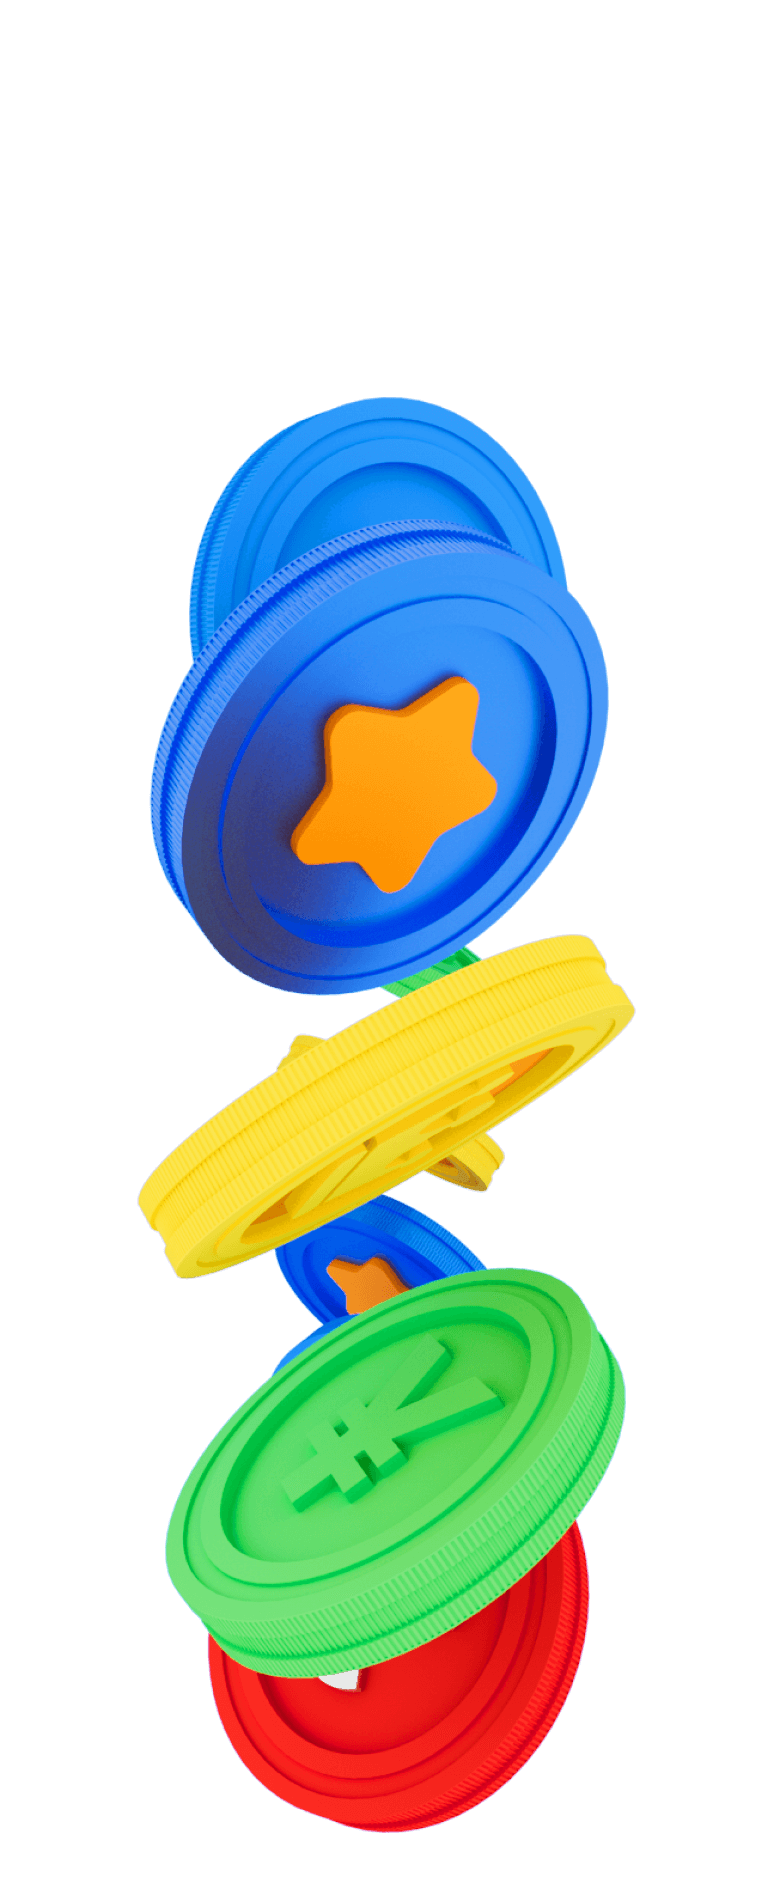
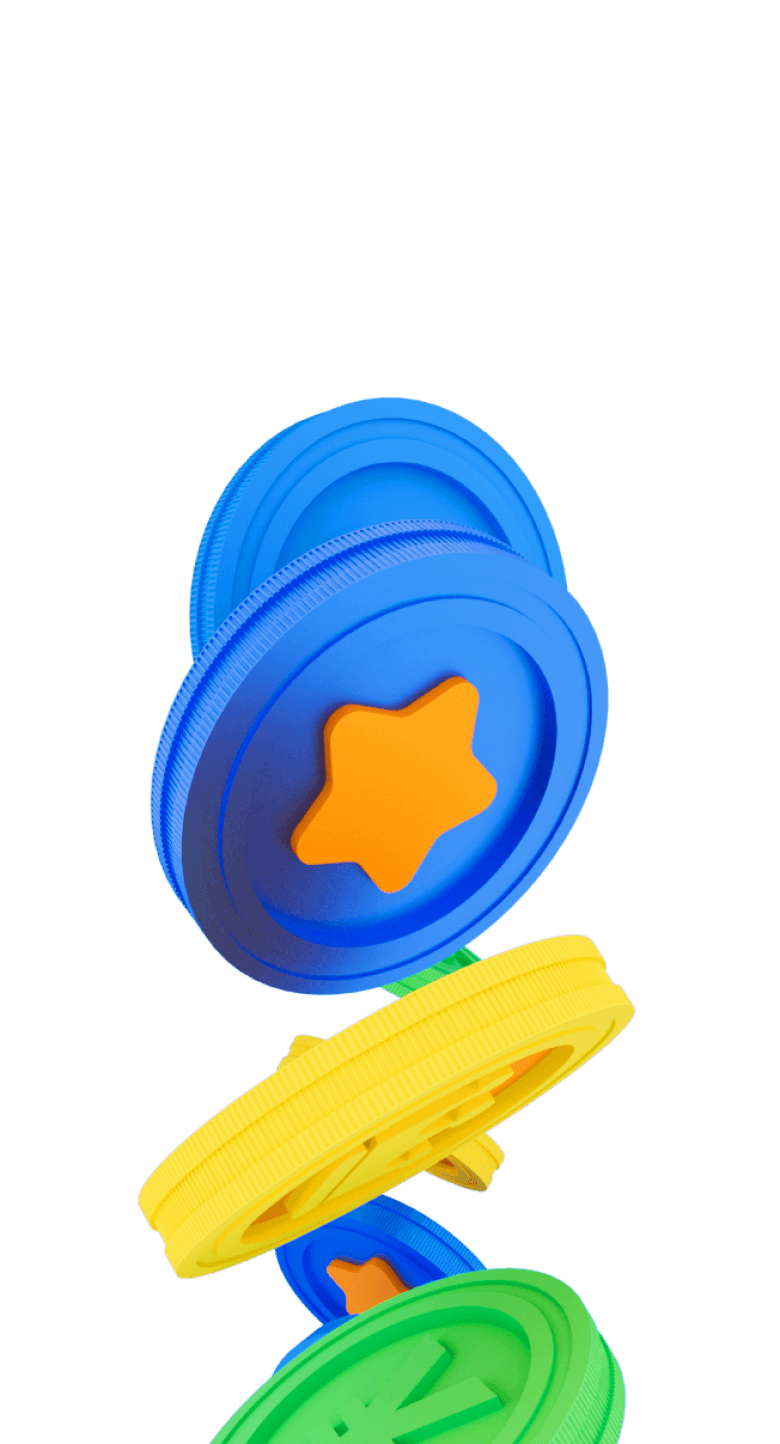
fix loader

diff --git a/components/Loader/Loader.module.scss b/components/Loader/Loader.module.scss
@@ -1,15 +1,12 @@
 .loader {
-  position: absolute;
-  z-index: 100;
-  top: 0;
-  right: 0;
-  bottom: 0;
-  left: 0;
+  position: relative;
+  height: 100vh;
   padding: 67px 0;
   display: flex;
   flex-direction: column;
   align-items: center;
   justify-content: space-between;
+  overflow: hidden;
 
   background: radial-gradient(50% 50% at 50% 50%, #00c3ff 0%, #007aff 100%);
   color: var(--color-white);
@@ -17,12 +14,13 @@
   .bg {
     position: absolute;
     top: 0;
+    bottom: 0;
 
-    .shape {
+    & .shape {
       position: absolute;
-      bottom: 0;
       left: 0;
       right: 0;
+      bottom: 0;
       height: 300px;
 
       background: linear-gradient(180deg, rgba(0, 122, 255, 0) 0%, #007aff 59.42%);

diff --git a/components/Wrapper/Wrapper.tsx b/components/Wrapper/Wrapper.tsx
@@ -37,7 +37,7 @@ const Wrapper = ({ children }: Props) => {
 
   useEffect(() => {
     setTimeout(() => {
-      setIsLoading(false)
+      // setIsLoading(false)
     }, 3000)
   }, [])
 
@@ -93,6 +93,10 @@ const Wrapper = ({ children }: Props) => {
     if (action === 'erase') {
       setValue((prev) => prev.slice(0, -1))
     }
+  }
+
+  if (isLoading) {
+    return <Loader />
   }
 
   return (
@@ -334,8 +338,6 @@ const Wrapper = ({ children }: Props) => {
           </div>
         </div>
       )}
-
-      {isLoading && <Loader />}
     </div>
   )
 }

diff --git a/components/Loader/Loader.tsx b/components/Loader/Loader.tsx
@@ -7,7 +7,7 @@ const Loader = () => {
   return (
     <div className={styles.loader}>
       <div className={styles.bg}>
-        <Image src={'/loader-bg.png'} alt={'coins'} width={390} height={943} />
+        <Image src={'/loader-bg.png'} alt={'coins'} width={390} height={722} />
         <div className={styles.shape}></div>
       </div>
       <div className={styles.top}>

diff --git a/components/Wrapper/Wrapper.module.scss b/components/Wrapper/Wrapper.module.scss
@@ -2,7 +2,7 @@
   position: relative;
   margin: 0 auto;
   padding-top: 25px;
-  // max-width: 390px;
+  max-width: 390px;
   // max-width: 1000px;
   // width: 100%;
   height: inherit;
